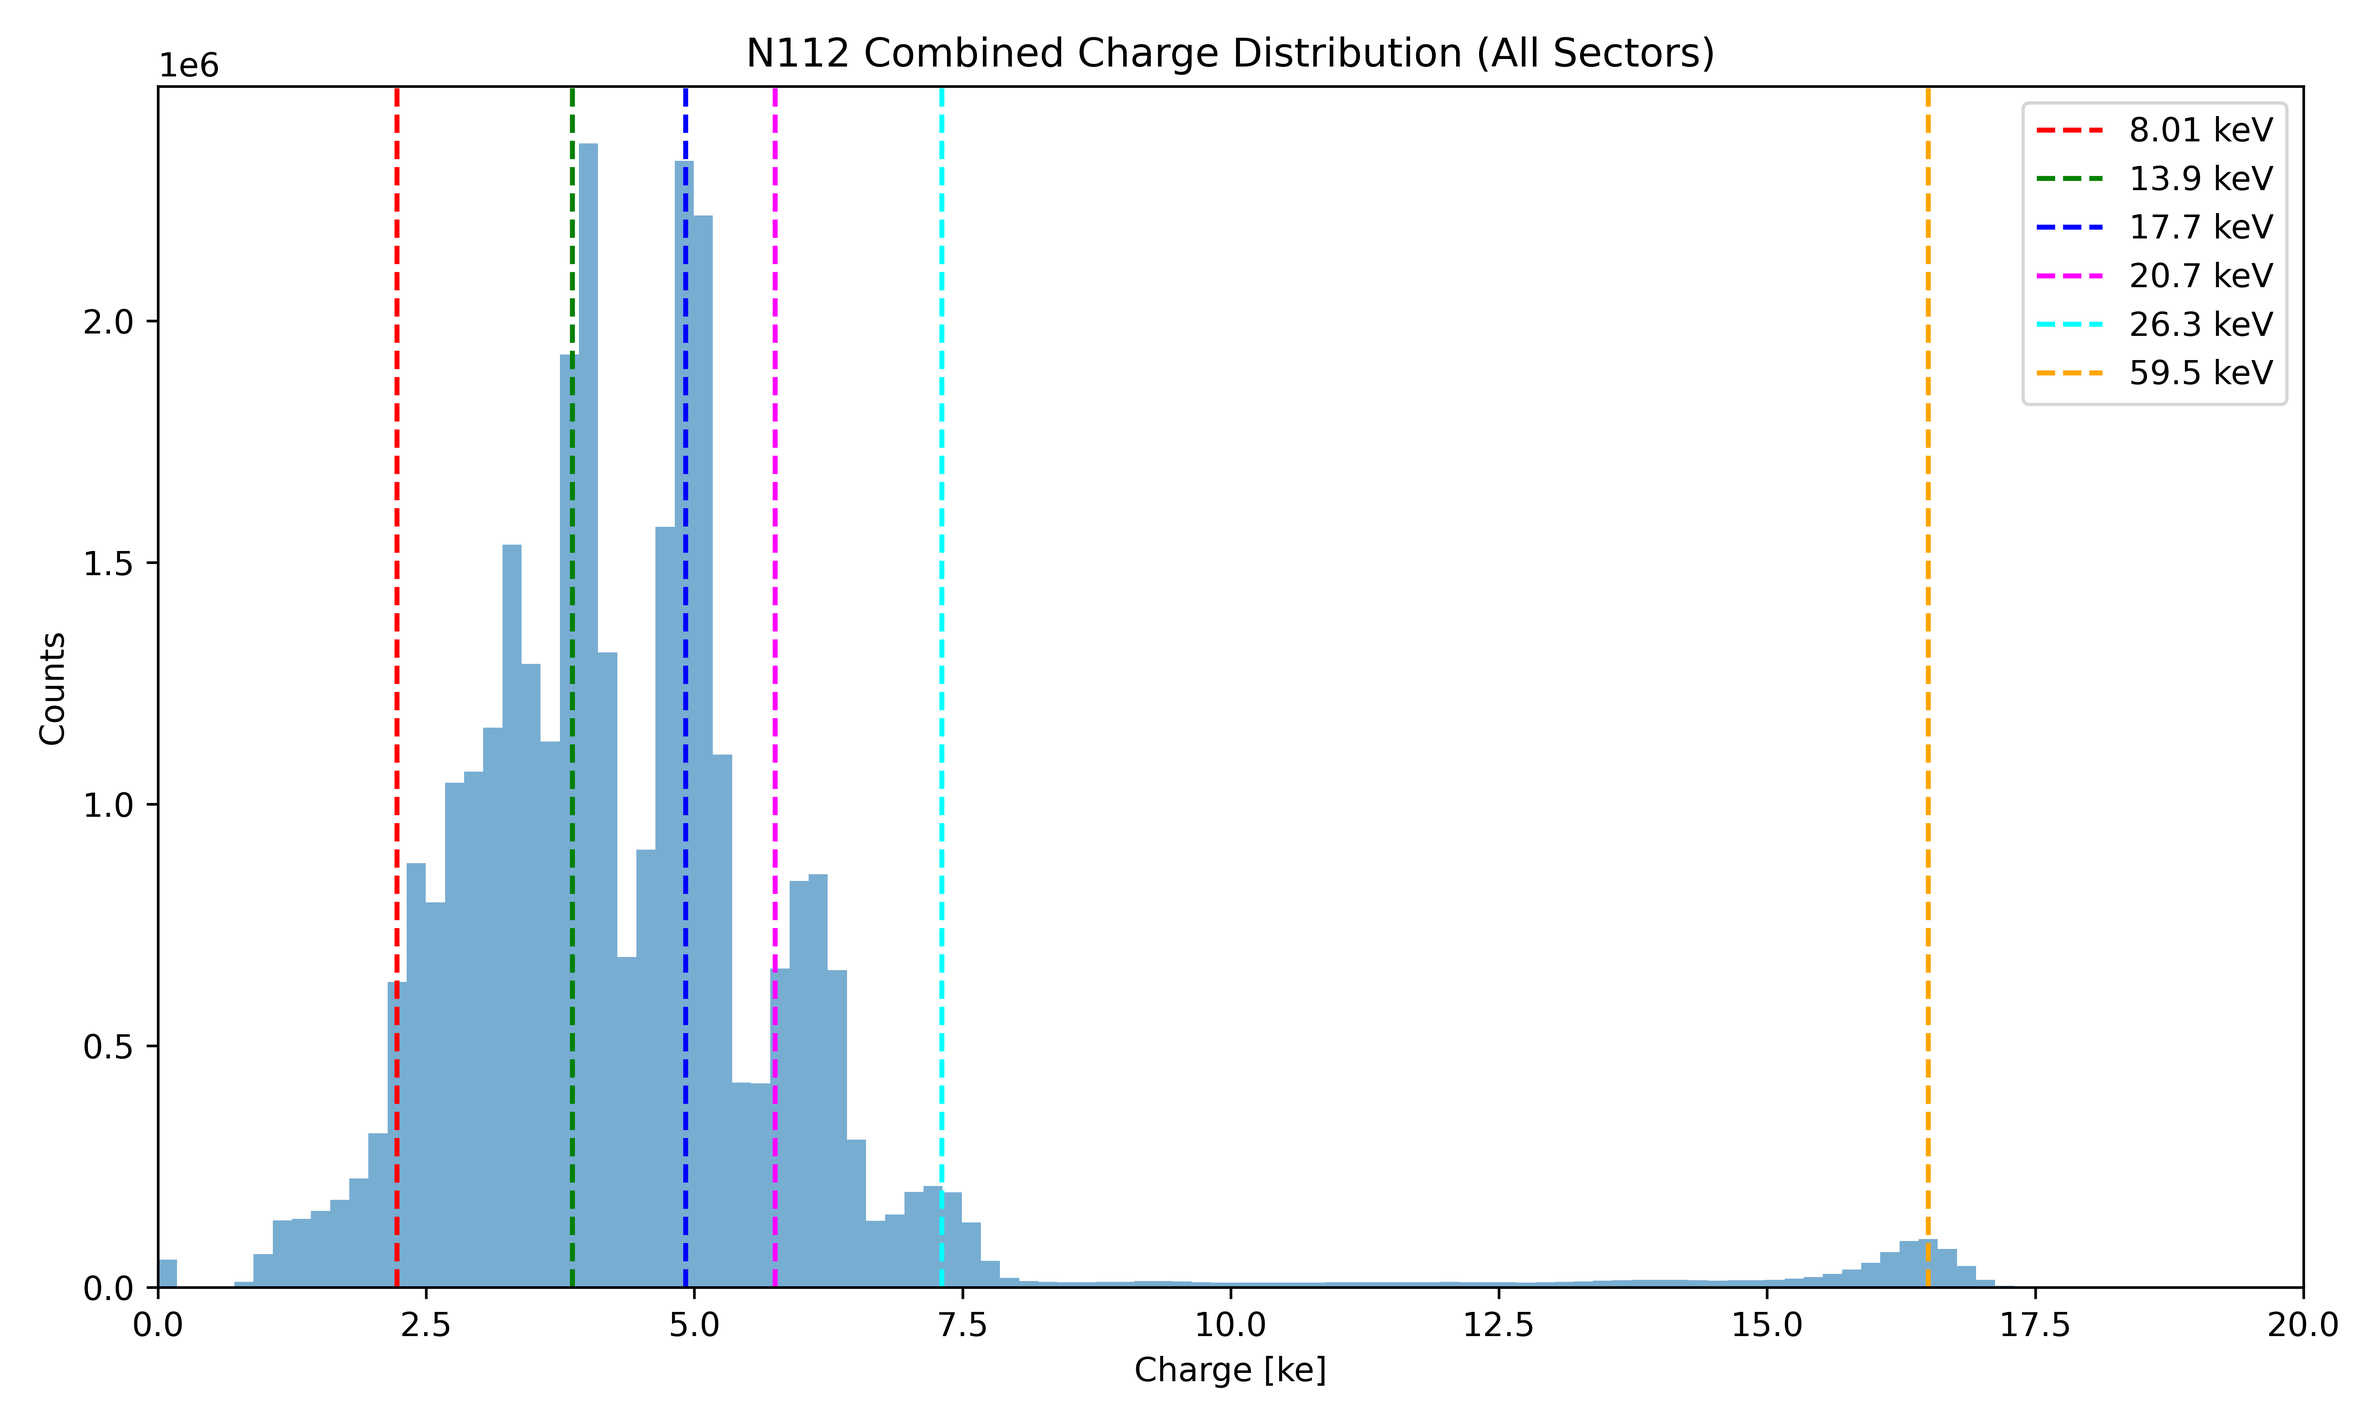
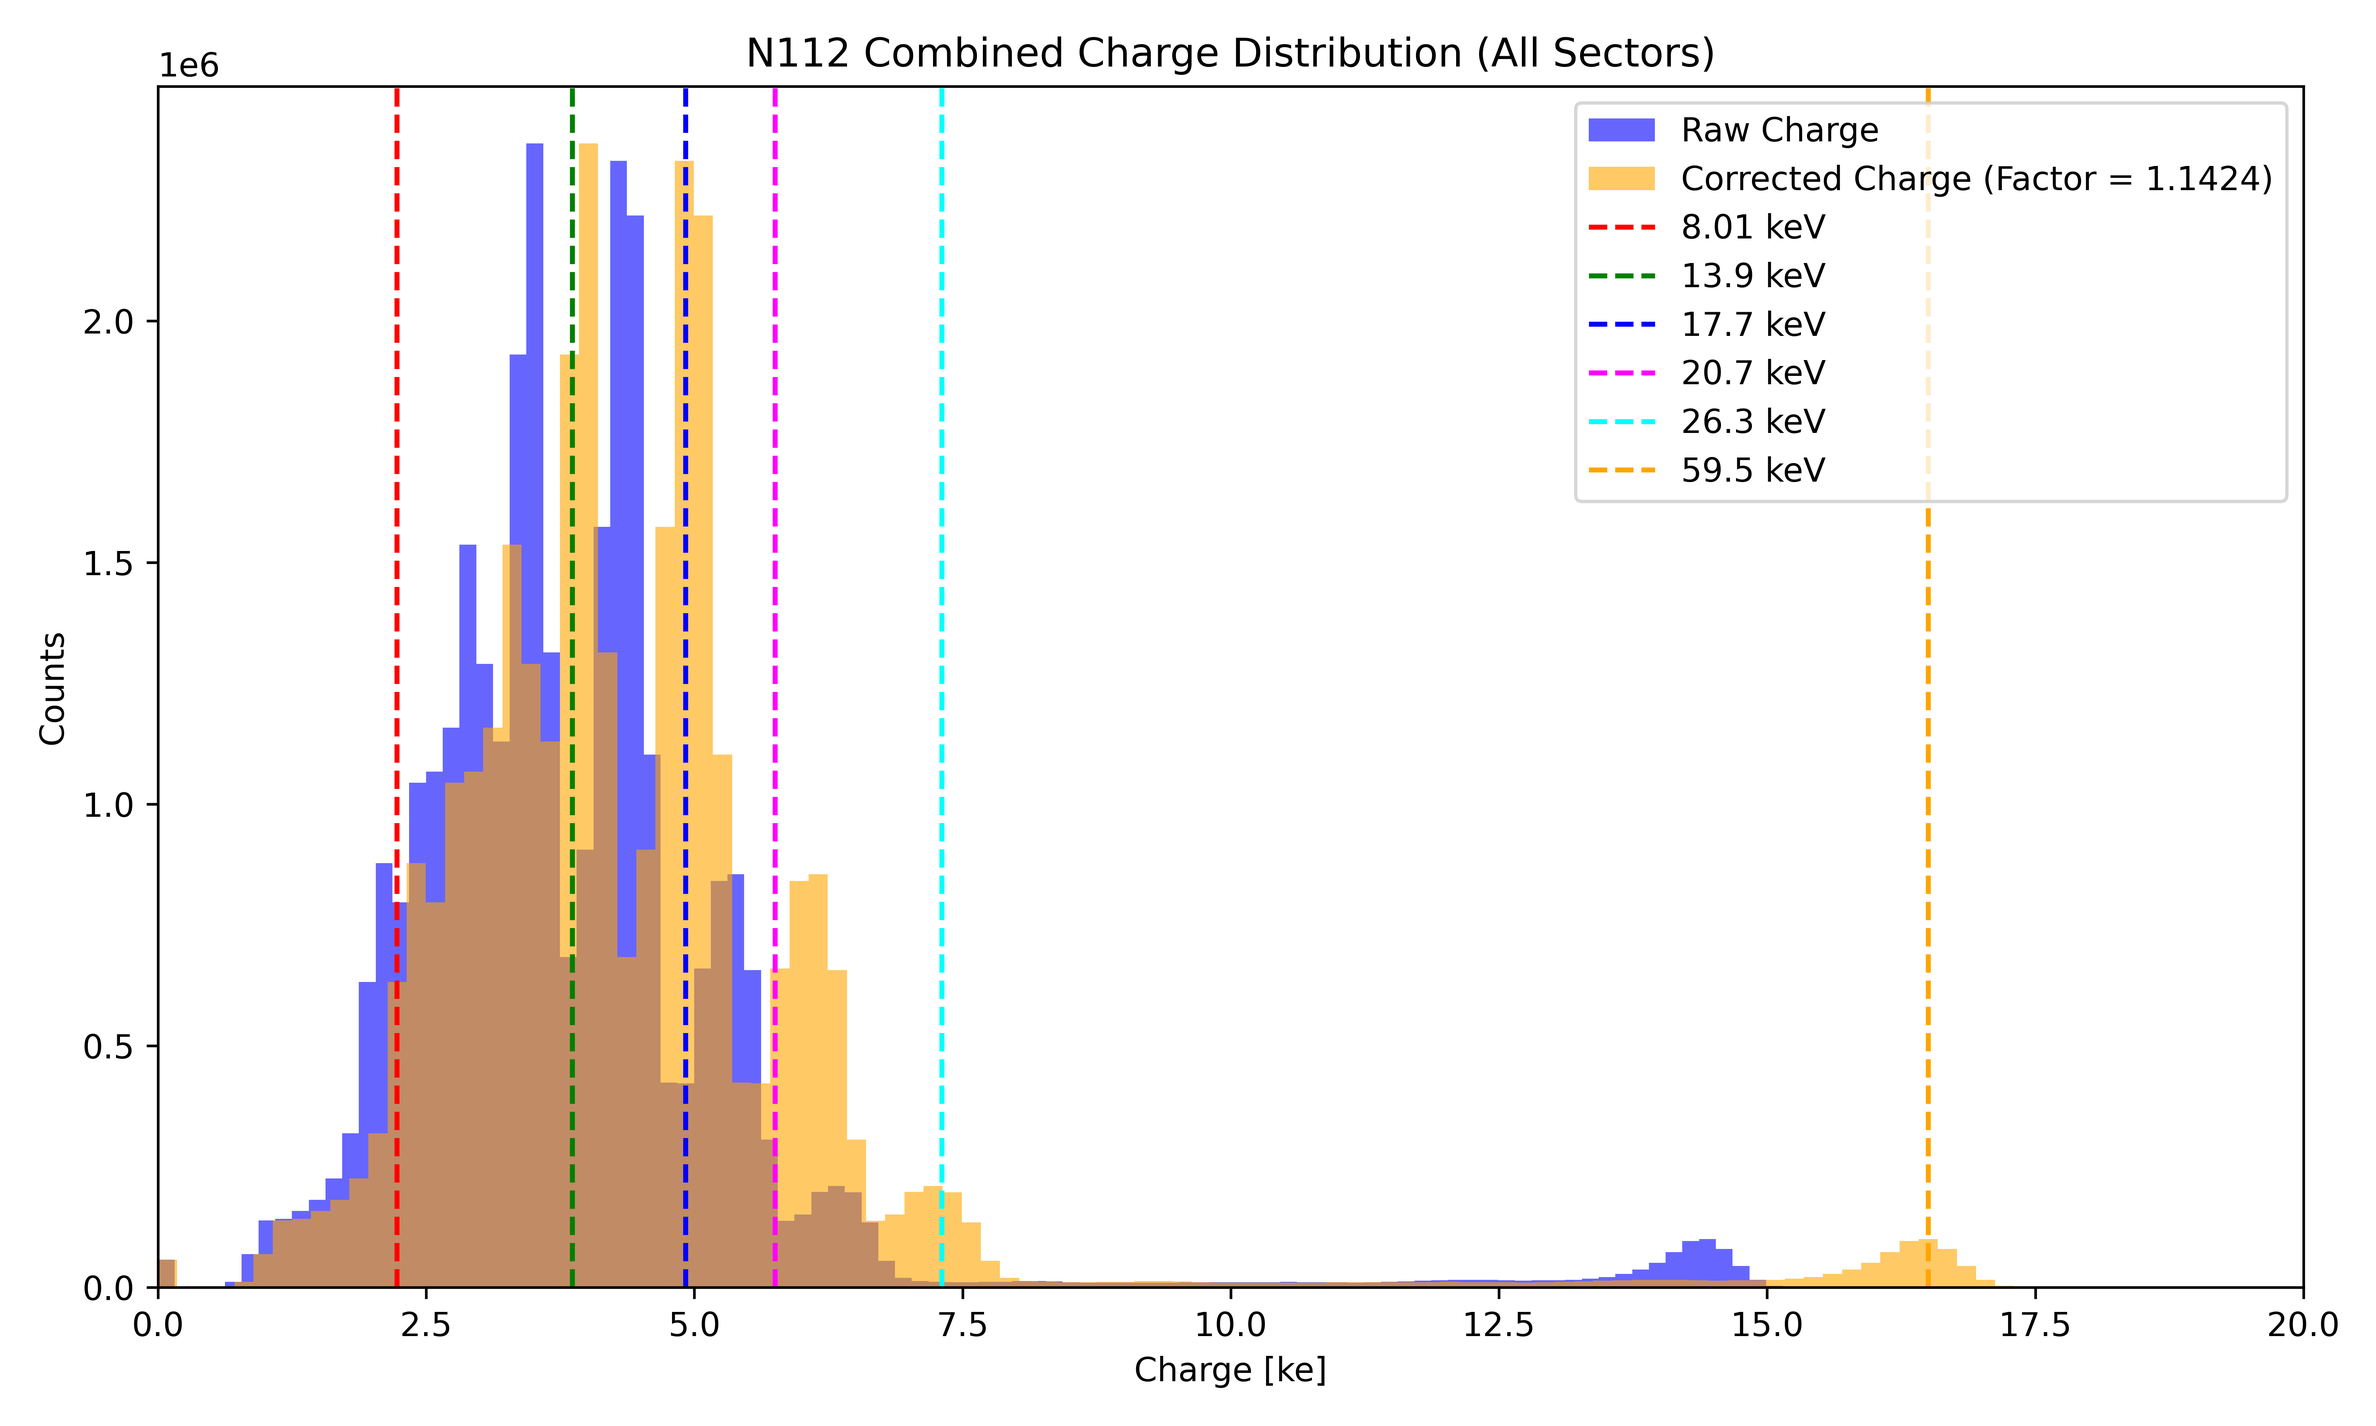
Updated scripts for analyzing multiple Threshold tests data, written function for plotting boxplots to compare

diff --git a/ThresholdAnalysis.py b/ThresholdAnalysis.py
@@ -1,6 +1,7 @@
 import pandas as pd
 import matplotlib.pyplot as plt
 import ast, re
+import numpy as np
 
 def LoadCSV(filepath):
     df = pd.read_csv(filepath, converters={"pixel": parse_tuple})
@@ -62,59 +63,49 @@ def PlotAveragePixels(filepaths: list[str]) -> None:
     plt.savefig("Multiple_Sensors_Average_Pixels.png", dpi=600)
     plt.show()
 
-def PlotSectorAverages(filepath):
-    sensor = filepath.split("/")[-2]
-    df = LoadCSV(filepath)
-    # Identify threshold columns (assumes columns named like 'threshold 4000', etc.)
-    threshold_columns = [col for col in df.columns if col.startswith("threshold")]
-    
-    # Extract x-axis values from threshold column names
-    x_values = [int(col.split()[1]) if " " in col else int(col.replace("threshold", "")) for col in threshold_columns]
-    
-    # Define sector filters based on the 'pixel' column
-    top_left = df[df["pixel"].apply(lambda p: p[0] < 224 and p[1] < 256)]
-    top_right = df[df["pixel"].apply(lambda p: p[0] >= 224 and p[1] < 256)]
-    bottom_left = df[df["pixel"].apply(lambda p: p[0] < 224 and p[1] >= 256)]
-    bottom_right = df[df["pixel"].apply(lambda p: p[0] > 224 and p[1] >= 256)]
-    
-    # Function to compute averages for each threshold column in a given DataFrame
-    def compute_average(sector_df):
-        return [sector_df[col].mean() for col in threshold_columns]
-    
-    avg_top_left = compute_average(top_left)
-    avg_top_right = compute_average(top_right)
-    avg_bottom_left = compute_average(bottom_left)
-    avg_bottom_right = compute_average(bottom_right)
-    
-    # Create a 2x2 subplot figure to plot each sector
+def PlotSectorAverages(filepaths: list[str]) -> None:
+    if not filepaths:
+        print("No filepaths provided.")
+        return
+
+    df_first = LoadCSV(filepaths[0])
+    threshold_cols = [col for col in df_first.columns if col.startswith("threshold")]
+    x_values = [int(col.split()[1]) if " " in col else int(col.replace("threshold", "")) for col in threshold_cols]
+
     fig, axs = plt.subplots(2, 2, figsize=(14, 10))
-    
-    axs[0, 0].plot(x_values, avg_top_left, marker='o', linestyle='-')
-    axs[0, 0].set_title("Top Left")
-    axs[0, 0].set_xlabel("Threshold")
-    axs[0, 0].set_ylabel("Average Hits")
-    axs[0, 0].axhline(y=500, color='red', linestyle='--')
-    
-    axs[0, 1].plot(x_values, avg_top_right, marker='o', linestyle='-')
-    axs[0, 1].set_title("Top Right")
-    axs[0, 1].set_xlabel("Threshold")
-    axs[0, 1].set_ylabel("Average Hits")
-    axs[0, 1].axhline(y=500, color='red', linestyle='--')
-    
-    axs[1, 0].plot(x_values, avg_bottom_left, marker='o', linestyle='-')
-    axs[1, 0].set_title("Bottom Left")
-    axs[1, 0].set_xlabel("Threshold")
-    axs[1, 0].set_ylabel("Average Hits")
-    axs[1, 0].axhline(y=500, color='red', linestyle='--')
-    
-    axs[1, 1].plot(x_values, avg_bottom_right, marker='o', linestyle='-')
-    axs[1, 1].set_title("Bottom Right")
-    axs[1, 1].set_xlabel("Threshold")
-    axs[1, 1].set_ylabel("Average Hits")
-    axs[1, 1].axhline(y=500, color='red', linestyle='--')
-    plt.suptitle(f"{sensor} Sector Averages vs Threshold")
+    axs = axs.flatten()
+
+    sector_titles = {0: "Top Left", 1: "Top Right", 2: "Bottom Left", 3: "Bottom Right"}
+
+    for filepath in filepaths:
+        sensor = filepath.split("/")[-2]
+        df = LoadCSV(filepath)
+
+        top_left = df[df["pixel"].apply(lambda p: p[0] < 224 and p[1] < 256)]
+        top_right = df[df["pixel"].apply(lambda p: p[0] >= 224 and p[1] < 256)]
+        bottom_left = df[df["pixel"].apply(lambda p: p[0] < 224 and p[1] >= 256)]
+        bottom_right = df[df["pixel"].apply(lambda p: p[0] >= 224 and p[1] >= 256)]
+
+        avg_top_left = [top_left[col].mean() for col in threshold_cols]
+        avg_top_right = [top_right[col].mean() for col in threshold_cols]
+        avg_bottom_left = [bottom_left[col].mean() for col in threshold_cols]
+        avg_bottom_right = [bottom_right[col].mean() for col in threshold_cols]
+
+        axs[0].plot(x_values, avg_top_left, marker='o', linestyle='-', label=sensor)
+        axs[1].plot(x_values, avg_top_right, marker='o', linestyle='-', label=sensor)
+        axs[2].plot(x_values, avg_bottom_left, marker='o', linestyle='-', label=sensor)
+        axs[3].plot(x_values, avg_bottom_right, marker='o', linestyle='-', label=sensor)
+
+    for i, ax in enumerate(axs):
+        ax.set_title(sector_titles[i])
+        ax.set_xlabel("Threshold")
+        ax.set_ylabel("Average Hits")
+        ax.axhline(y=500, color='red', linestyle='--')
+        ax.legend()
+
+    plt.suptitle("Sector Averages vs Threshold for Multiple Sensors")
     plt.tight_layout()
-    plt.savefig(f"{sensor}_Sector_Averages.png", dpi=600)
+    plt.savefig("Multiple_Sensors_Sector_Averages.png", dpi=600)
     plt.show()
 
 def ExtrapolateThreshold(row):
@@ -214,16 +205,145 @@ def PlotThresholdSector16(filepath):
 
     plt.suptitle(f"{sensor} Distribution of Extrapolated Thresholds by Sector")
     plt.tight_layout()
-    plt.savefig(f"{sensor}_Threshold16Sectors_Subplots.png", dpi=600)
+    plt.savefig(f"{sensor}_ThresholdSectors_Subplots.png", dpi=600)
+    plt.show()
+
+def PlotThresholdDistributionMultiple(filepaths: list[str]) -> None:
+    if not filepaths:
+        print("No filepaths provided.")
+        return
+
+    # Prepare lists to accumulate the sensor data and labels
+    sensor_data = []
+    sensor_labels = []
+    colors = ["lightblue", "lightgreen", "lightpink", "lightyellow", "lavender", "lightcoral", "wheat", "plum"]
+
+    for index, filepath in enumerate(filepaths):
+        sensor = filepath.split("/")[-2]
+        sensor_labels.append(sensor)
+        df = LoadCSV(filepath)
+        # Compute extrapolated thresholds and drop NaNs
+        df_thresholds = ExtrapolateThresholds(df).dropna().values
+        sensor_data.append(df_thresholds)
+
+    plt.figure(figsize=(12, 8))
+    bp = plt.boxplot(sensor_data, labels=sensor_labels, patch_artist=True)
+    for i, patch in enumerate(bp['boxes']):
+        patch.set_facecolor(colors[i % len(colors)])
+    plt.xlabel("Sensor")
+    plt.ylabel("Extrapolated Threshold")
+    plt.title("Distribution of Extrapolated Thresholds for Multiple Sensors")
+    plt.tight_layout()
+    plt.savefig("Multiple_Sensors_Threshold_Distribution_BoxPlot.png", dpi=600)
+    plt.show()
+
+def PlotThresholdSectorMultiple(filepaths: list[str]) -> None:
+    if not filepaths:
+        print("No filepaths provided.")
+        return
+
+    # Define sector conditions
+    sector_titles = {"Top Left": lambda p: p[0] < 224 and p[1] < 256,
+                     "Top Right": lambda p: p[0] >= 224 and p[1] < 256,
+                     "Bottom Left": lambda p: p[0] < 224 and p[1] >= 256,
+                     "Bottom Right": lambda p: p[0] >= 224 and p[1] >= 256}
+
+    fig, axs = plt.subplots(2, 2, figsize=(14, 10))
+    axs = axs.flatten()
+
+    # Dictionary to accumulate thresholds per sensor for each sector
+    sector_data = {sector: {} for sector in sector_titles.keys()}
+
+    for filepath in filepaths:
+        sensor = filepath.split("/")[-2]
+        df = LoadCSV(filepath)
+        for sector_name, condition in sector_titles.items():
+            sector_df = df[df["pixel"].apply(condition)]
+            # Compute extrapolated thresholds and drop NaNs
+            df_thresholds = ExtrapolateThresholds(sector_df).dropna().values
+            if sensor in sector_data[sector_name]:
+                # Concatenate new values with existing array
+                sector_data[sector_name][sensor] = np.concatenate((sector_data[sector_name][sensor], df_thresholds))
+            else:
+                sector_data[sector_name][sensor] = df_thresholds
+
+    for ax_index, (sector_name, sensors_data) in enumerate(sector_data.items()):
+         data_to_plot = [sensors_data[sensor] for sensor in sensors_data]
+         labels = list(sensors_data.keys())
+         bp = axs[ax_index].boxplot(data_to_plot, labels=labels, patch_artist=True)
+         # Define a list of colors to assign to boxes, cycling if necessary
+         box_colors = ["lightblue", "lightgreen", "lightpink", "lightyellow", "lavender", "lightcoral", "wheat", "plum"]
+         for i, patch in enumerate(bp['boxes']):
+             patch.set_facecolor(box_colors[i % len(box_colors)])
+         axs[ax_index].set_title(f"Extrapolated Thresholds - {sector_name}")
+         axs[ax_index].set_xlabel("Sensor")
+         axs[ax_index].set_ylabel("Extrapolated Threshold")
+
+    plt.suptitle("Distribution of Extrapolated Thresholds by Sector for Multiple Sensors")
+    plt.tight_layout()
+    plt.savefig("Multiple_Sensors_ThresholdSectors_BoxPlots.png", dpi=600)
+    plt.show()
+
+def PlotThresholdSector16Multiple(filepaths: list[str]) -> None:
+    if not filepaths:
+        print("No filepaths provided.")
+        return
+
+    x_boundaries = [0, 112, 224, 336, 448]
+    y_boundaries = [0, 128, 256, 384, 512]
+
+    # Create a dictionary for 16 sectors with corresponding lambda conditions
+    sectors = {}
+    for i in range(4):
+        for j in range(4):
+            sector_name = f"Sector (Col: {x_boundaries[j]}-{x_boundaries[j+1]}, Row: {y_boundaries[i]}-{y_boundaries[i+1]})"
+            sectors[sector_name] = lambda p, xb=x_boundaries[j], xb_next=x_boundaries[j+1], yb=y_boundaries[i], yb_next=y_boundaries[i+1]: (
+                p[0] >= xb and p[0] < xb_next and p[1] >= yb and p[1] < yb_next)
+
+    # Dictionary to accumulate thresholds per sensor for each sector
+    sector_data = {sector: {} for sector in sectors.keys()}
+
+    for filepath in filepaths:
+        sensor = filepath.split("/")[-2]
+        df = LoadCSV(filepath)
+        for sector_name, condition in sectors.items():
+            sector_df = df[df["pixel"].apply(condition)]
+            df_thresholds = ExtrapolateThresholds(sector_df).dropna().values
+            if sensor in sector_data[sector_name]:
+                sector_data[sector_name][sensor] = np.concatenate((sector_data[sector_name][sensor], df_thresholds))
+            else:
+                sector_data[sector_name][sensor] = df_thresholds
+
+    # Create a 4x4 subplot figure for box plots
+    fig, axs = plt.subplots(4, 4, figsize=(16, 16))
+    axs = axs.flatten()
+    
+    for ax_index, (sector_name, sensors_data) in enumerate(sector_data.items()):
+        data_to_plot = [sensors_data[sensor] for sensor in sensors_data]
+        labels = list(sensors_data.keys())
+        bp = axs[ax_index].boxplot(data_to_plot, labels=labels, patch_artist=True)
+        # Define a list of colors to assign to boxes, cycling if necessary
+        box_colors = ["lightblue", "lightgreen", "lightpink", "lightyellow", "lavender", "lightcoral", "wheat", "plum"]
+        for i, patch in enumerate(bp['boxes']):
+            patch.set_facecolor(box_colors[i % len(box_colors)])
+        axs[ax_index].set_title(sector_name)
+        axs[ax_index].set_xlabel("Sensor")
+        axs[ax_index].set_ylabel("Extrapolated Threshold")
+    
+    plt.suptitle("Distribution of Extrapolated Thresholds by 16 Sectors for Multiple Sensors")
+    plt.tight_layout()
+    plt.savefig("Multiple_Sensors_Threshold16Sectors_BoxPlots.png", dpi=600)
     plt.show()
 
 if __name__ == "__main__":
-    filepath = "Data/Threshold Test Data/N116/FinalHits.csv"
-    filepath2 = "Data/Threshold Test Data/N112/FinalHits.csv"
-    # PlotOnePixel(filepath)
-    # PlotThresholdDistribution(filepath)
+    N116 = "Data/Threshold Test Data/N116/FinalHits.csv"
+    N112 = "Data/Threshold Test Data/N112/FinalHits.csv"
+    N10 = "Data/Threshold Test Data/N10/FinalHits.csv"
+    N113 = "Data/Threshold Test Data/N113/FinalHits.csv"
+    filepaths = [N10, N112, N113, N116]
 
-    PlotAveragePixels([filepath, filepath2])
-    # PlotSectorAverages(filepath)
-    # PlotThresholdSector(filepath)
-    # PlotThresholdSector16(filepath)
+    # PlotAveragePixels(filepaths)
+    # PlotSectorAverages(filepaths)
+    # PlotThresholdDistributionMultiple(filepaths)
+    # PlotThresholdSectorMultiple(filepaths)
+    PlotThresholdSector16Multiple(filepaths)

diff --git a/SplitToT.py b/SplitToT.py
@@ -15,20 +15,21 @@ def PlotCompare(filepath):
     df = pd.read_csv(f"Data/4Sector Data/{filepath}-Charge4Sector.csv")
     df = df[["Top Left", "Top Right", "Bottom Left", "Bottom Right"]]
     # Combine all values into one array
-    all_values = df.values.flatten() * 1.1424
+    all_values = df.values.flatten()
 
     # Create a single histogram
     plt.figure(figsize=(10, 6))
-    plt.hist(all_values, bins=1600, alpha=0.6)
+    plt.hist(all_values, bins=1600, alpha=0.6, color = "blue", label = "Raw Charge")
+    plt.hist(all_values * 1.1424, bins=1600, alpha=0.6, color = "orange", label = "Corrected Charge (Factor = 1.1424)")
     plt.xlim(0, 20)
     plt.xlabel("Charge [ke]")
     plt.ylabel("Counts")
     for line in vlines:
         plt.axvline(x=line["x"], color=line["color"], linestyle='--', label=line["label"])
     plt.legend(loc = "best")
-    plt.title(f"{filename} Corrected Combined Charge Distribution (All Sectors) (Factor 1.1424)")
+    plt.title(f"{filename} Combined Charge Distribution (All Sectors)")
     plt.tight_layout()
-    plt.savefig(f"{filename}_Corrected_Combined_Charge_Distribution.png", dpi=600)
+    plt.savefig(f"{filename}_Combined_Charge_Distribution.png", dpi=600)
     plt.show()
     # # Create histogram and get axes
     # axarr = df.hist(layout=(2, 2), bins=1600, alpha=0.5, figsize=(20, 20), grid = False)

diff --git a/RootToCSV.py b/RootToCSV.py
@@ -212,5 +212,5 @@ if __name__ == "__main__":
     # ConvertToT4Sector("N116-250408-105332.root")
     # Threshold("Data/Threshold Test Data/")
     # FilterThreshold("Data/Threshold Test Data/FinalHits.csv")
-    # Threshold("Data/Threshold Test Data/N112/")
-    ConvertToT4Sector("N10-250409-113326.root")
+    Threshold("Data/Threshold Test Data/N113/")
+    # ConvertToT4Sector("N112-250411-101613.root")
